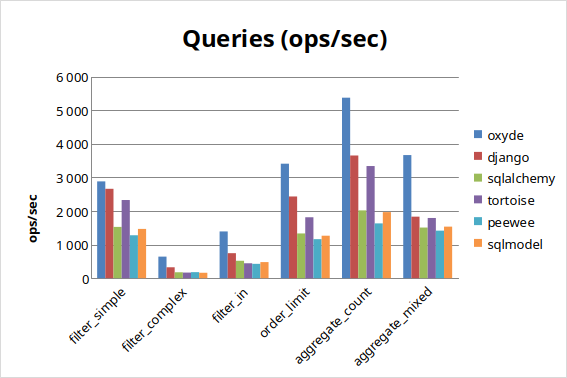
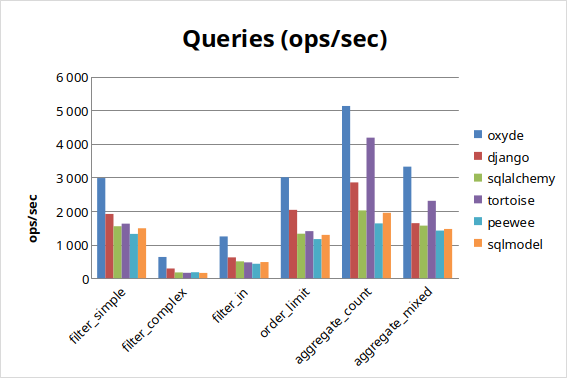
Updated REPORT.md (core-v0.4.2)

diff --git a/REPORT.md b/REPORT.md
@@ -1,6 +1,6 @@
 # Oxyde ORM Benchmark Report
 
-**Date:** March 7, 2026
+**Date:** March 11, 2026
 **Configuration:** 100 iterations, 10 warmup, 1000 users, 20 posts/user
 
 ## Summary (average ops/sec)
@@ -9,24 +9,24 @@
 
 | Rank | ORM | Relative Score | Avg ops/sec |
 |------|-----|----------------|-------------|
-| 1 | **Oxyde** | 0.920 | 1,433 |
-| 2 | Piccolo | 0.614 | 956 |
-| 3 | Tortoise | 0.575 | 896 |
-| 4 | Django | 0.470 | 733 |
-| 5 | SQLAlchemy | 0.292 | 455 |
-| 6 | SQLModel | 0.278 | 433 |
-| 7 | Peewee | 0.050 | 79 |
+| 1 | **Oxyde** | 0.897 | 1,475 |
+| 2 | Piccolo | 0.567 | 932 |
+| 3 | Tortoise | 0.540 | 888 |
+| 4 | Django | 0.448 | 736 |
+| 5 | SQLAlchemy | 0.271 | 445 |
+| 6 | SQLModel | 0.262 | 431 |
+| 7 | Peewee | 0.048 | 80 |
 
 ### MySQL
 
 | Rank | ORM | Relative Score | Avg ops/sec |
 |------|-----|----------------|-------------|
-| 1 | **Oxyde** | 1.127 | 1,284 |
-| 2 | Django | 0.717 | 816 |
-| 3 | Tortoise | 0.687 | 783 |
-| 4 | SQLAlchemy | 0.459 | 523 |
-| 5 | SQLModel | 0.442 | 503 |
-| 6 | Peewee | 0.410 | 467 |
+| 1 | **Oxyde** | 1.066 | 1,239 |
+| 2 | Tortoise | 0.684 | 794 |
+| 3 | Django | 0.614 | 714 |
+| 4 | SQLAlchemy | 0.461 | 536 |
+| 5 | SQLModel | 0.434 | 505 |
+| 6 | Peewee | 0.396 | 461 |
 
 *Piccolo does not support MySQL.*
 
@@ -34,13 +34,13 @@
 
 | Rank | ORM | Relative Score | Avg ops/sec |
 |------|-----|----------------|-------------|
-| 1 | **Oxyde** | 0.381 | 2,575 |
-| 2 | Tortoise | 0.279 | 1,884 |
-| 3 | Django | 0.190 | 1,283 |
-| 4 | SQLAlchemy | 0.088 | 592 |
-| 5 | SQLModel | 0.083 | 560 |
-| 6 | Peewee | 0.082 | 553 |
-| 7 | Piccolo | 0.069 | 468 |
+| 1 | **Oxyde** | 0.366 | 2,525 |
+| 2 | Tortoise | 0.273 | 1,882 |
+| 3 | Django | 0.188 | 1,294 |
+| 4 | SQLAlchemy | 0.085 | 588 |
+| 5 | SQLModel | 0.082 | 567 |
+| 6 | Peewee | 0.080 | 548 |
+| 7 | Piccolo | 0.068 | 469 |
 
 ---
 
@@ -52,13 +52,13 @@
 
 | Test | asyncpg | Oxyde | Django | SQLAlchemy | Tortoise | Piccolo | Peewee | SQLModel |
 |------|---------|-------|--------|------------|----------|---------|--------|----------|
-| insert_single | 761 | 655 | 640 | 536 | 750 | 714 | 142 | 536 |
-| insert_bulk_100 | 416 | 361 | 251 | 187 | 257 | 204 | 99 | 128 |
-| select_pk | 7,053 | 6,412 | 2,926 | 1,594 | 3,946 | 3,915 | 171 | 1,472 |
-| select_filter | 813 | 308 | 154 | 168 | 144 | 133 | 94 | 142 |
-| update_single | 745 | 768 | 622 | 523 | 693 | 746 | 143 | 523 |
-| update_bulk | 649 | 652 | 600 | 501 | 647 | 665 | 140 | 499 |
-| delete_single | 287 | 280 | 171 | 262 | 274 | 281 | 105 | 258 |
+| insert_single | 769 | 664 | 701 | 531 | 735 | 700 | 143 | 537 |
+| insert_bulk_100 | 444 | 354 | 252 | 185 | 261 | 201 | 100 | 126 |
+| select_pk | 7,181 | 6,823 | 2,956 | 1,566 | 3,910 | 3,708 | 174 | 1,468 |
+| select_filter | 829 | 308 | 153 | 162 | 143 | 132 | 93 | 138 |
+| update_single | 747 | 756 | 659 | 526 | 674 | 723 | 144 | 528 |
+| update_bulk | 657 | 707 | 586 | 501 | 640 | 673 | 142 | 501 |
+| delete_single | 275 | 282 | 172 | 263 | 276 | 282 | 106 | 253 |
 
 ### Query Operations
 
@@ -66,12 +66,12 @@
 
 | Test | asyncpg | Oxyde | Django | SQLAlchemy | Tortoise | Piccolo | Peewee | SQLModel |
 |------|---------|-------|--------|------------|----------|---------|--------|----------|
-| filter_simple | 5,698 | 5,088 | 2,801 | 1,502 | 3,544 | 3,564 | 166 | 1,461 |
-| filter_complex | 1,383 | 601 | 287 | 324 | 281 | 268 | 121 | 271 |
-| filter_in | 2,769 | 643 | 642 | 629 | 737 | 680 | 147 | 574 |
-| order_limit | 4,593 | 3,808 | 2,274 | 1,381 | 2,170 | 2,780 | 166 | 1,312 |
-| aggregate_count | 4,559 | 8,042 | 3,855 | 1,655 | 4,414 | 4,637 | 171 | 1,583 |
-| aggregate_mixed | 5,146 | 4,437 | 1,811 | 1,396 | 2,564 | 3,344 | 169 | 1,369 |
+| filter_simple | 5,731 | 5,017 | 2,829 | 1,449 | 3,524 | 3,491 | 170 | 1,428 |
+| filter_complex | 1,489 | 599 | 281 | 310 | 280 | 263 | 122 | 267 |
+| filter_in | 2,657 | 620 | 653 | 602 | 769 | 656 | 149 | 562 |
+| order_limit | 4,882 | 4,363 | 2,284 | 1,347 | 2,051 | 2,688 | 169 | 1,296 |
+| aggregate_count | 6,132 | 7,319 | 3,715 | 1,584 | 4,333 | 4,397 | 175 | 1,599 |
+| aggregate_mixed | 4,990 | 5,374 | 1,871 | 1,388 | 2,629 | 3,421 | 173 | 1,383 |
 
 ### Relations
 
@@ -79,10 +79,10 @@
 
 | Test | asyncpg | Oxyde | Django | SQLAlchemy | Tortoise | Piccolo | Peewee | SQLModel |
 |------|---------|-------|--------|------------|----------|---------|--------|----------|
-| join_simple | 22 | 10 | 3 | 5 | 4 | 2 | 4 | 4 |
-| join_filter | 22 | 10 | 3 | 5 | 4 | 2 | 4 | 4 |
+| join_simple | 22 | 9 | 3 | 5 | 4 | 2 | 4 | 4 |
+| join_filter | 23 | 10 | 3 | 5 | 4 | 2 | 4 | 4 |
 | prefetch_related | 33 | 4 | 4 | 4 | 6 | 5 | 5 | 3 |
-| nested_prefetch | 25 | 2 | 1 | 2 | 4 | 3 | 4 | 2 |
+| nested_prefetch | 25 | 3 | 1 | 2 | 3 | 3 | 4 | 2 |
 
 ### Concurrent Operations
 
@@ -90,9 +90,9 @@
 
 | Concurrency | asyncpg | Oxyde | Django | SQLAlchemy | Tortoise | Piccolo | Peewee | SQLModel |
 |-------------|---------|-------|--------|------------|----------|---------|--------|----------|
-| 10 | 1,151 | 1,151 | 280 | 219 | 542 | 501 | 18 | 215 |
-| 50 | 268 | 242 | 57 | 5 | 116 | 109 | 4 | 5 |
-| 100 | 135 | 119 | 29 | 4 | 57 | 55 | 2 | 4 |
+| 10 | 1,304 | 1,077 | 282 | 224 | 544 | 517 | 18 | 214 |
+| 50 | 262 | 233 | 57 | 5 | 112 | 105 | 4 | 5 |
+| 100 | 132 | 121 | 29 | 4 | 56 | 54 | 2 | 4 |
 
 ### Scalability
 
@@ -108,13 +108,13 @@
 
 | Test | aiomysql | Oxyde | Django | SQLAlchemy | Tortoise | Peewee | SQLModel |
 |------|----------|-------|--------|------------|----------|--------|----------|
-| insert_single | 769 | 648 | 647 | 568 | 682 | 561 | 531 |
-| insert_bulk_100 | 384 | 312 | 232 | 156 | 243 | 196 | 115 |
-| select_pk | 5,641 | 6,352 | 3,441 | 1,935 | 3,650 | 1,575 | 1,791 |
-| select_filter | 139 | 359 | 180 | 91 | 80 | 93 | 81 |
-| update_single | 728 | 685 | 660 | 570 | 669 | 574 | 527 |
-| update_bulk | 2,174 | 2,048 | 1,745 | 1,149 | 1,834 | 1,289 | 1,204 |
-| delete_single | 684 | 677 | 339 | 566 | 657 | 506 | 529 |
+| insert_single | 712 | 736 | 665 | 596 | 703 | 529 | 561 |
+| insert_bulk_100 | 409 | 324 | 219 | 156 | 245 | 197 | 112 |
+| select_pk | 6,662 | 6,315 | 3,597 | 1,938 | 3,766 | 1,435 | 1,778 |
+| select_filter | 133 | 346 | 173 | 88 | 77 | 88 | 79 |
+| update_single | 719 | 704 | 634 | 596 | 736 | 539 | 566 |
+| update_bulk | 2,290 | 2,057 | 1,449 | 1,332 | 1,740 | 1,312 | 1,218 |
+| delete_single | 700 | 624 | 352 | 586 | 632 | 503 | 554 |
 
 ### Query Operations
 
@@ -122,12 +122,12 @@
 
 | Test | aiomysql | Oxyde | Django | SQLAlchemy | Tortoise | Peewee | SQLModel |
 |------|----------|-------|--------|------------|----------|--------|----------|
-| filter_simple | 2,981 | 2,880 | 2,659 | 1,526 | 2,326 | 1,277 | 1,467 |
-| filter_complex | 281 | 642 | 325 | 176 | 166 | 180 | 161 |
-| filter_in | 717 | 1,390 | 744 | 517 | 443 | 426 | 478 |
-| order_limit | 2,752 | 3,405 | 2,430 | 1,331 | 1,812 | 1,162 | 1,264 |
-| aggregate_count | 4,647 | 5,369 | 3,650 | 2,017 | 3,336 | 1,630 | 1,965 |
-| aggregate_mixed | 3,343 | 3,662 | 1,830 | 1,507 | 1,791 | 1,414 | 1,534 |
+| filter_simple | 2,921 | 2,978 | 1,912 | 1,546 | 1,622 | 1,317 | 1,486 |
+| filter_complex | 270 | 632 | 289 | 172 | 160 | 177 | 157 |
+| filter_in | 718 | 1,242 | 620 | 501 | 470 | 429 | 480 |
+| order_limit | 2,405 | 3,003 | 2,033 | 1,323 | 1,399 | 1,163 | 1,288 |
+| aggregate_count | 4,638 | 5,122 | 2,849 | 2,016 | 4,180 | 1,630 | 1,946 |
+| aggregate_mixed | 3,312 | 3,318 | 1,637 | 1,564 | 2,302 | 1,416 | 1,465 |
 
 ### Relations
 
@@ -135,10 +135,10 @@
 
 | Test | aiomysql | Oxyde | Django | SQLAlchemy | Tortoise | Peewee | SQLModel |
 |------|----------|-------|--------|------------|----------|--------|----------|
-| join_simple | 4 | 11 | 4 | 3 | 3 | 2 | 2 |
-| join_filter | 4 | 11 | 4 | 3 | 3 | 2 | 3 |
-| prefetch_related | 6 | 12 | 5 | 3 | 3 | 4 | 3 |
-| nested_prefetch | 6 | 8 | 1 | 2 | 2 | 3 | 2 |
+| join_simple | 4 | 11 | 4 | 3 | 2 | 2 | 2 |
+| join_filter | 4 | 11 | 4 | 3 | 3 | 2 | 2 |
+| prefetch_related | 6 | 12 | 5 | 3 | 3 | 3 | 2 |
+| nested_prefetch | 5 | 8 | 1 | 2 | 2 | 3 | 1 |
 
 ### Concurrent Operations
 
@@ -146,9 +146,9 @@
 
 | Concurrency | aiomysql | Oxyde | Django | SQLAlchemy | Tortoise | Peewee | SQLModel |
 |-------------|----------|-------|--------|------------|----------|--------|----------|
-| 10 | 1,083 | 1,220 | 356 | 253 | 566 | 159 | 238 |
-| 50 | 209 | 235 | 66 | 40 | 110 | 32 | 39 |
-| 100 | 105 | 119 | 37 | 22 | 56 | 16 | 21 |
+| 10 | 1,018 | 1,201 | 352 | 250 | 530 | 160 | 232 |
+| 50 | 206 | 227 | 73 | 40 | 105 | 32 | 39 |
+| 100 | 103 | 119 | 36 | 22 | 53 | 16 | 20 |
 
 ### Scalability
 
@@ -166,13 +166,13 @@
 
 | Test | aiosqlite | Oxyde | Django | SQLAlchemy | Tortoise | Piccolo | Peewee | SQLModel |
 |------|-----------|-------|--------|------------|----------|---------|--------|----------|
-| insert_single | 775 | 5,054 | 698 | 568 | 725 | 159 | 158 | 569 |
-| insert_bulk_100 | 622 | 754 | 290 | 75 | 332 | 100 | 120 | 61 |
-| select_pk | 41,600 | 7,503 | 4,531 | 1,929 | 6,015 | 1,588 | 1,958 | 1,874 |
-| select_filter | 1,078 | 284 | 196 | 188 | 82 | 115 | 73 | 156 |
-| update_single | 785 | 8,561 | 707 | 573 | 720 | 161 | 165 | 560 |
-| update_bulk | 13,388 | 7,719 | 6,040 | 1,622 | 8,370 | 1,730 | 2,262 | 1,634 |
-| delete_single | 182 | 229 | 126 | 171 | 181 | 88 | 93 | 169 |
+| insert_single | 748 | 4,585 | 647 | 568 | 715 | 153 | 164 | 561 |
+| insert_bulk_100 | 635 | 817 | 288 | 75 | 318 | 100 | 120 | 63 |
+| select_pk | 42,752 | 7,528 | 4,822 | 1,958 | 6,004 | 1,638 | 1,969 | 1,896 |
+| select_filter | 1,060 | 183 | 193 | 187 | 77 | 115 | 73 | 156 |
+| update_single | 823 | 7,628 | 710 | 546 | 798 | 158 | 165 | 567 |
+| update_bulk | 14,571 | 7,681 | 5,776 | 1,684 | 8,441 | 1,708 | 2,223 | 1,660 |
+| delete_single | 183 | 242 | 128 | 175 | 181 | 86 | 93 | 170 |
 
 ### Query Operations
 
@@ -180,12 +180,12 @@
 
 | Test | aiosqlite | Oxyde | Django | SQLAlchemy | Tortoise | Piccolo | Peewee | SQLModel |
 |------|-----------|-------|--------|------------|----------|---------|--------|----------|
-| filter_simple | 18,518 | 5,413 | 4,118 | 1,882 | 5,228 | 1,529 | 1,762 | 1,822 |
-| filter_complex | 1,778 | 460 | 315 | 330 | 147 | 196 | 131 | 259 |
-| filter_in | 7,183 | 1,597 | 1,000 | 907 | 580 | 560 | 441 | 762 |
-| order_limit | 12,346 | 4,513 | 3,275 | 1,673 | 3,002 | 1,348 | 1,428 | 1,458 |
-| aggregate_count | 44,023 | 10,514 | 6,304 | 2,136 | 13,832 | 1,805 | 2,208 | 2,082 |
-| aggregate_mixed | 12,986 | 6,482 | 2,508 | 1,749 | 4,512 | 1,489 | 1,880 | 1,667 |
+| filter_simple | 18,577 | 5,294 | 4,411 | 1,903 | 5,241 | 1,512 | 1,758 | 1,822 |
+| filter_complex | 1,869 | 314 | 311 | 318 | 142 | 189 | 127 | 261 |
+| filter_in | 7,179 | 1,153 | 1,008 | 872 | 559 | 564 | 428 | 754 |
+| order_limit | 12,284 | 4,235 | 3,295 | 1,673 | 2,937 | 1,346 | 1,342 | 1,601 |
+| aggregate_count | 45,096 | 11,807 | 6,360 | 2,077 | 13,825 | 1,838 | 2,245 | 2,042 |
+| aggregate_mixed | 12,929 | 6,438 | 2,407 | 1,689 | 4,475 | 1,491 | 1,863 | 1,672 |
 
 ### Relations
 
@@ -193,10 +193,10 @@
 
 | Test | aiosqlite | Oxyde | Django | SQLAlchemy | Tortoise | Piccolo | Peewee | SQLModel |
 |------|-----------|-------|--------|------------|----------|---------|--------|----------|
-| join_simple | 28 | 7 | 4 | 5 | 3 | 2 | 2 | 4 |
-| join_filter | 29 | 8 | 4 | 5 | 3 | 2 | 2 | 5 |
-| prefetch_related | 44 | 9 | 5 | 4 | 4 | 4 | 3 | 3 |
-| nested_prefetch | 35 | 8 | 1 | 2 | 3 | 3 | 2 | 2 |
+| join_simple | 26 | 5 | 4 | 5 | 3 | 2 | 2 | 4 |
+| join_filter | 27 | 5 | 4 | 5 | 3 | 2 | 2 | 5 |
+| prefetch_related | 40 | 7 | 5 | 4 | 3 | 4 | 3 | 3 |
+| nested_prefetch | 32 | 6 | 1 | 2 | 3 | 3 | 2 | 2 |
 
 ### Concurrent Operations
 
@@ -204,9 +204,9 @@
 
 | Concurrency | aiosqlite | Oxyde | Django | SQLAlchemy | Tortoise | Piccolo | Peewee | SQLModel |
 |-------------|-----------|-------|--------|------------|----------|---------|--------|----------|
-| 10 | 3,427 | 1,342 | 342 | 204 | 746 | 223 | 303 | 196 |
-| 50 | 722 | 272 | 71 | 37 | 155 | 28 | 60 | 35 |
-| 100 | 362 | 141 | 35 | 19 | 79 | 12 | 30 | 18 |
+| 10 | 3,397 | 1,346 | 343 | 204 | 738 | 221 | 297 | 197 |
+| 50 | 703 | 289 | 71 | 38 | 145 | 28 | 60 | 35 |
+| 100 | 350 | 143 | 36 | 20 | 77 | 12 | 30 | 18 |
 
 ### Scalability
 
@@ -220,21 +220,21 @@
 
 | Test | asyncpg | Oxyde | Django | SQLAlchemy | Tortoise | Piccolo | Peewee | SQLModel |
 |------|---------|-------|--------|------------|----------|---------|--------|----------|
-| insert_single | 1.315 | 1.526 | 1.562 | 1.866 | 1.333 | 1.400 | 7.030 | 1.866 |
-| select_pk | 0.142 | 0.156 | 0.342 | 0.627 | 0.253 | 0.256 | 5.848 | 0.679 |
-| update_single | 1.342 | 1.302 | 1.609 | 1.911 | 1.443 | 1.341 | 7.015 | 1.913 |
-| filter_simple | 0.175 | 0.197 | 0.357 | 0.666 | 0.282 | 0.281 | 6.030 | 0.684 |
-| aggregate_count | 0.219 | 0.124 | 0.259 | 0.604 | 0.227 | 0.216 | 5.841 | 0.632 |
+| insert_single | 1.300 | 1.505 | 1.426 | 1.883 | 1.361 | 1.428 | 6.970 | 1.861 |
+| select_pk | 0.139 | 0.147 | 0.338 | 0.638 | 0.256 | 0.270 | 5.737 | 0.681 |
+| update_single | 1.339 | 1.323 | 1.518 | 1.901 | 1.484 | 1.383 | 6.960 | 1.895 |
+| filter_simple | 0.174 | 0.199 | 0.353 | 0.690 | 0.284 | 0.286 | 5.887 | 0.700 |
+| aggregate_count | 0.163 | 0.137 | 0.269 | 0.631 | 0.231 | 0.227 | 5.703 | 0.625 |
 
 ### PostgreSQL - P99 Latency (ms)
 
 | Test | asyncpg | Oxyde | Django | SQLAlchemy | Tortoise | Piccolo | Peewee | SQLModel |
 |------|---------|-------|--------|------------|----------|---------|--------|----------|
-| insert_single | 1.506 | 6.481 | 1.759 | 2.002 | 1.584 | 1.720 | 7.435 | 2.241 |
-| select_pk | 0.159 | 0.359 | 0.391 | 0.695 | 0.277 | 0.338 | 6.222 | 0.983 |
-| update_single | 1.613 | 1.419 | 5.259 | 5.619 | 1.734 | 1.590 | 7.402 | 2.808 |
-| filter_simple | 0.257 | 0.257 | 0.619 | 1.121 | 0.356 | 0.318 | 6.581 | 0.755 |
-| aggregate_count | 0.246 | 0.166 | 0.366 | 0.667 | 0.251 | 0.320 | 6.391 | 0.856 |
+| insert_single | 1.367 | 6.959 | 1.660 | 3.314 | 1.637 | 1.750 | 10.516 | 2.380 |
+| select_pk | 0.159 | 0.234 | 0.363 | 0.854 | 0.294 | 0.528 | 6.194 | 0.888 |
+| update_single | 1.417 | 2.156 | 1.734 | 5.442 | 5.008 | 1.655 | 8.108 | 2.016 |
+| filter_simple | 0.192 | 0.372 | 0.430 | 0.875 | 0.304 | 0.346 | 6.143 | 0.749 |
+| aggregate_count | 0.182 | 0.273 | 0.549 | 0.676 | 0.279 | 0.444 | 6.009 | 0.657 |
 
 ---
 
@@ -244,11 +244,11 @@
 
 | Test | asyncpg | Oxyde | Django | SQLAlchemy | Tortoise | Piccolo | Peewee | SQLModel |
 |------|---------|-------|--------|------------|----------|---------|--------|----------|
-| insert_single | 38.7 | 52.7 | 66.2 | 58.3 | 51.1 | 41.7 | 59.0 | 65.6 |
-| select_pk | 44.6 | 57.6 | 71.4 | 64.0 | 56.4 | 47.5 | 63.2 | 71.3 |
-| join_simple | 73.8 | 148.9 | 107.6 | 95.6 | 85.7 | 101.2 | 97.9 | 107.7 |
-| nested_prefetch | 80.0 | 149.3 | 161.1 | 114.4 | 122.1 | 103.9 | 103.5 | 127.8 |
-| concurrent_100 | 108.3 | 122.0 | 132.8 | 115.2 | 147.8 | 125.1 | 98.2 | 123.5 |
+| insert_single | 37.6 | 52.7 | 66.4 | 58.3 | 51.0 | 41.1 | 60.1 | 67.3 |
+| select_pk | 43.6 | 57.6 | 72.5 | 64.0 | 56.1 | 47.0 | 64.3 | 69.6 |
+| join_simple | 73.7 | 80.7 | 107.8 | 99.0 | 85.5 | 100.5 | 98.5 | 110.1 |
+| nested_prefetch | 78.5 | 104.2 | 159.3 | 115.5 | 121.5 | 108.4 | 105.0 | 128.0 |
+| concurrent_100 | 107.3 | 99.5 | 136.5 | 114.2 | 147.8 | 125.7 | 96.9 | 127.2 |
 
 ---
 

diff --git a/README.md b/README.md
@@ -26,7 +26,7 @@ See the full benchmark report with charts and detailed analysis:
 
 **[View Benchmark Report (REPORT.md)](REPORT.md)**
 
-Latest results from March 7, 2026 comparing all 7 ORMs across PostgreSQL, MySQL, and SQLite.
+Latest results from March 11, 2026 comparing all 7 ORMs across PostgreSQL, MySQL, and SQLite.
 
 ## Quick Start
 
